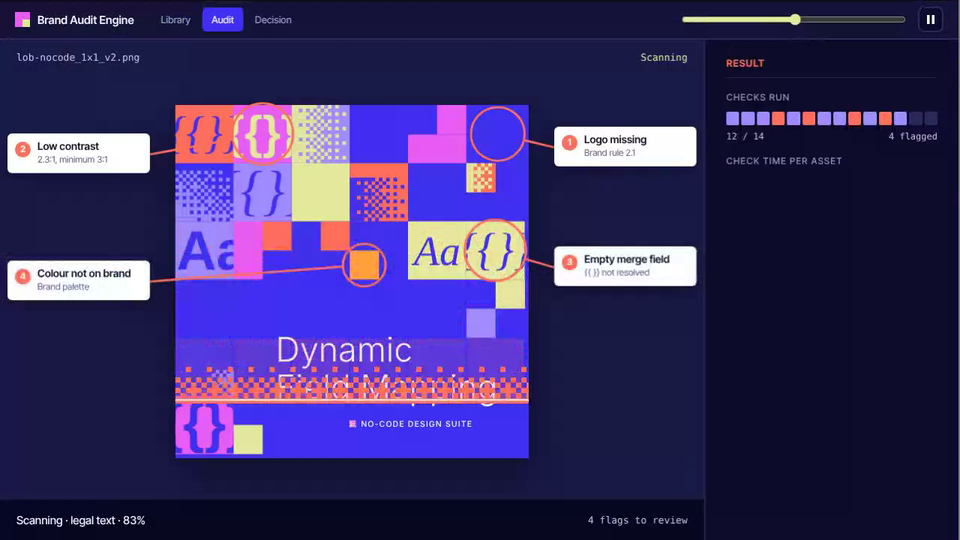
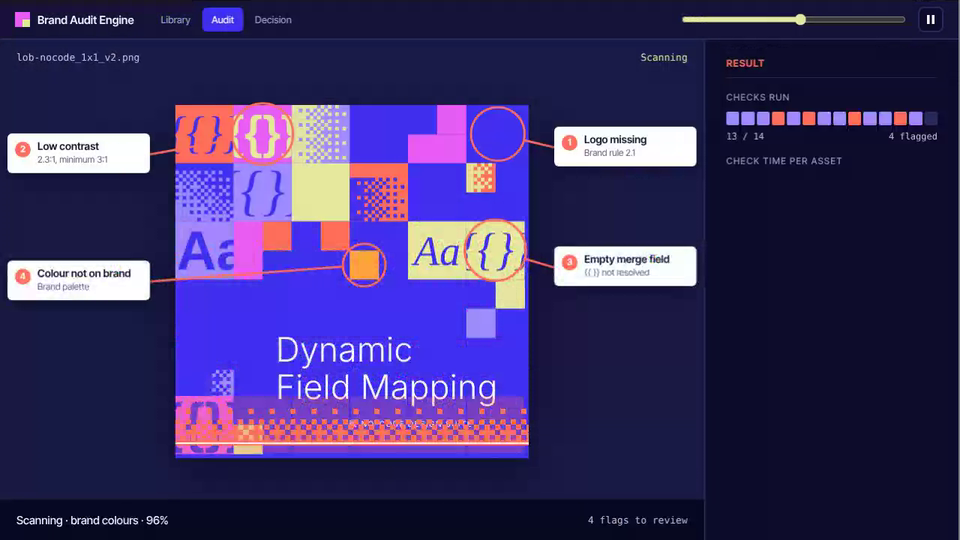
Brand Audit Engine: drop legal text flag (four flags), re-record clip
Claude-Session: https://claude.ai/code/session_01AHeBdyJbkKFm3mk24X3VDa

diff --git a/brand-audit-engine/index.html b/brand-audit-engine/index.html
@@ -302,8 +302,7 @@ const FLAGS = [
   {n:1, title:'Logo missing',        sub:'Brand rule 2.1',          cx:1180, cy:106,  rx:98,  ry:98,  side:'R', slot:.12},
   {n:2, title:'Low contrast',        sub:`${CR}:1, minimum 3:1`,    cx:320,  cy:106,  rx:112, ry:112, side:'L', slot:.14},
   {n:3, title:'Empty merge field',   sub:'{{ }} not resolved',      cx:1171, cy:532,  rx:112, ry:112, side:'R', slot:.46},
-  {n:4, title:'Colour not on brand', sub:'Brand palette',           cx:692,  cy:586,  rx:78,  ry:78,  side:'L', slot:.5},
-  {n:5, title:'Legal text not found',sub:'Postal compliance 7.3',   cx:790,  cy:1240, rx:450, ry:40,  side:'R', slot:.9}
+  {n:4, title:'Colour not on brand', sub:'Brand palette',           cx:692,  cy:586,  rx:78,  ry:78,  side:'L', slot:.5}
 ];
 const SCAN_A = 6900, SCAN_B = 11400;
 FLAGS.forEach(f => f.t = SCAN_A + (SCAN_B - SCAN_A) * clamp01((f.cy - f.ry * .5) / REF));
@@ -390,8 +389,7 @@ function layoutAudit(){
     f.card.style.display = cards ? '' : 'none';
     f.nb.style.display = cards ? 'none' : 'grid';
     f.nb.style.left = (cx - rx * .7) + 'px'; f.nb.style.top = (cy - ry * .7) + 'px';
-    if(f.cy > REF * .8 && !cards){ f.nb.style.left = (ix + 12) + 'px'; f.nb.style.top = (cy - ry - 4) + 'px'; }
-    if(cards){
+        if(cards){
       const ch = 56, x = f.side === 'L' ? ix - gap - cw : ix + s + gap;
       const y = Math.min(H - ch - 4, Math.max(4, iy + f.slot * s - ch / 2));
       f.card.style.left = x + 'px'; f.card.style.top = y + 'px';
@@ -414,7 +412,7 @@ function renderDetail(t){
   const S = ST[st], steps = ['Uploaded','Auto-audit','Human review','Approved'];
   const pipe = steps.map((n, i) => `<div class="${i + 1 < S.step ? 'done' : i + 1 === S.step ? 'cur' : ''}" style="--c:${S.c}"><b>${i + 1 < S.step ? '✓' : i + 1}</b>${n}${i + 1 === S.step ? `<small>${st === 'changes' ? 'Back to designer' : 'In progress'}</small>` : ''}</div>`).join('');
   detail.innerHTML = `<div class="dthumb"></div><div class="dname">${it.name}</div>
-    <dl class="kv"><dt>Status</dt><dd><span class="pill" style="--c:${S.c};margin:0">${S.label}</span></dd><dt>Format</dt><dd>1:1 · 1293 px</dd><dt>Campaign</dt><dd>No-code launch</dd><dt>Flags</dt><dd>${st === 'changes' ? '5 open' : 'Not audited'}</dd></dl>
+    <dl class="kv"><dt>Status</dt><dd><span class="pill" style="--c:${S.c};margin:0">${S.label}</span></dd><dt>Format</dt><dd>1:1 · 1293 px</dd><dt>Campaign</dt><dd>No-code launch</dd><dt>Flags</dt><dd>${st === 'changes' ? '4 open' : 'Not audited'}</dd></dl>
     <div class="pipe">${pipe}</div><button class="btn${st === 'changes' ? ' ghost' : ''}" id="runBtn">${st === 'changes' ? 'View report' : 'Run audit'}</button>`;
   const c = document.createElement('canvas'); c.width = c.height = 300; c.getContext('2d').drawImage(tcv, 0, 0); detail.querySelector('.dthumb').appendChild(c);
 }
@@ -481,7 +479,7 @@ function drawFx(t){
 
 /* ---------- main render ---------- */
 const sceneLib = $('#lib'), sceneAud = $('#aud');
-const SCAN_LABELS = [[0, 'palette'], [.18, 'typography'], [.32, 'logo zone'], [.48, 'merge fields'], [.64, 'contrast'], [.82, 'legal text']];
+const SCAN_LABELS = [[0, 'palette'], [.18, 'typography'], [.32, 'logo zone'], [.48, 'merge fields'], [.64, 'contrast'], [.82, 'brand colours']];
 const cache = {};
 const setTxt = (id, el, v) => { if(cache[id] !== v){ cache[id] = v; el.textContent = v; } };
 const el = {estatus: $('#estatus'), eleft: $('#eleft'), eright: $('#eright'), cn: $('#cn'), cf: $('#cf'), lblG: $('#lblG'), lblO: $('#lblO'), accN: $('#accN'), barG: $('#barG'), barO: $('#barO'), ring: $('#ring'), decide: $('#decide'), bC: $('#bChanges'), bA: $('#bApprove'), accBox: $('#accBox')};
@@ -534,7 +532,7 @@ function render(t){
     setTxt('el', el.eleft, done ? 'Reviewer decides' : t < SCAN_A ? 'Preparing' : `Scanning · ${lab} · ${Math.round(sp * 100)}%`);
     setTxt('er', el.eright, `${started} flag${started === 1 ? '' : 's'} to review`);
     const n = Math.round(14 * sp);
-    tickEls.forEach((e, i) => { const fl = [3, 5, 8, 10, 13].indexOf(i) >= 0 && i < n && FLAGS[[3, 5, 8, 10, 13].indexOf(i)].t <= t; e.className = i < n ? (fl ? 'x' : 'p') : ''; });
+    tickEls.forEach((e, i) => { const fl = [3, 5, 8, 11].indexOf(i) >= 0 && i < n && FLAGS[[3, 5, 8, 11].indexOf(i)].t <= t; e.className = i < n ? (fl ? 'x' : 'p') : ''; });
     setTxt('cn', el.cn, `${n} / 14`); setTxt('cf', el.cf, `${started} flagged`);
     FLAGS.forEach(f => {
       const c = easeOut(prog(t, f.t, f.t + 450)), l = easeOut(prog(t, f.t + 380, f.t + 750)), k = easeOut(prog(t, f.t + 600, f.t + 950));
